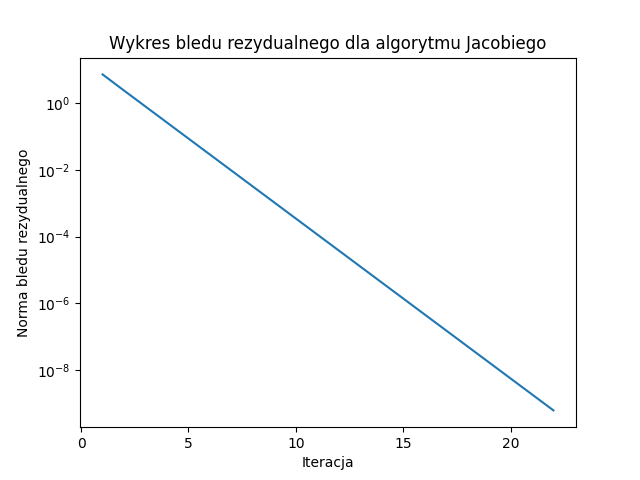
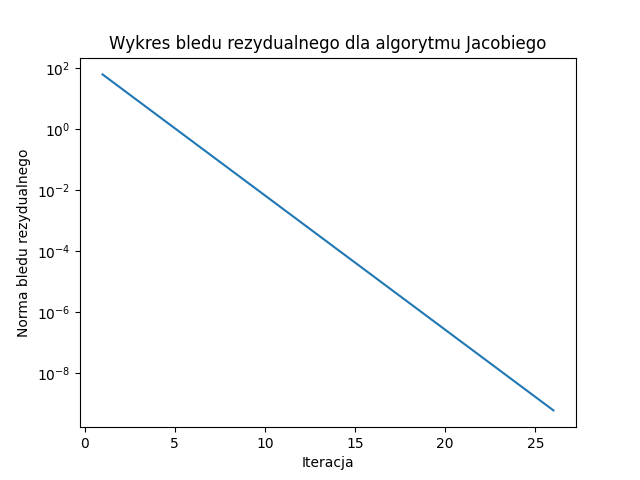
Improved Jacobi method

diff --git a/src/main.cpp b/src/main.cpp
@@ -5,7 +5,7 @@
 #include "matrix.h"
 
 #define PLOT_DIR "plots/"
-#define N 10//567 //9*7*9
+#define N 567 //9*7*9
 #define A1 11
 #define A2 -1
 #define A3 -1
@@ -22,8 +22,11 @@ Matrix CalculateJacobi(Matrix& A, Matrix& b, double accuracy, std::vector<int>& 
     r.FillOnes();
     double error = (A*r-b).CalculateNorm();
     int i=0;
+    //these dont change through the algorithm so I preallocated them for speed
+    Matrix rParam = (D*(-1)).InverseDiagonalMatrix() * (L+U);
+    Matrix freeParam = D.InverseDiagonalMatrix()*b;
     while(error > accuracy){
-        r = (D*(-1)).InverseDiagonalMatrix() * (L+U)*r + D.InverseDiagonalMatrix()*b;
+        r = rParam*r + freeParam;
         error = (A*r-b).CalculateNorm();
         i++;
         iterations.push_back(i);
@@ -51,7 +54,7 @@ int main(){
     auto stop = std::chrono::high_resolution_clock::now();
     std::cout<<"Metoda Jacobiego"<<"\n";
     std::cout<<"Liczba iteracji: "<<iterations.size()<<"\n";
-    std::cout<<"Czas wykonania: "<<std::chrono::duration_cast<std::chrono::microseconds>(stop-start).count()<<"\n";
+    std::cout<<"Czas wykonania: "<<std::chrono::duration_cast<std::chrono::milliseconds>(stop-start).count()<<"\n";
     plt::semilogy(iterations, residuum);
     plt::title("Wykres bledu rezydualnego dla algorytmu Jacobiego");
     plt::xlabel("Iteracja");
